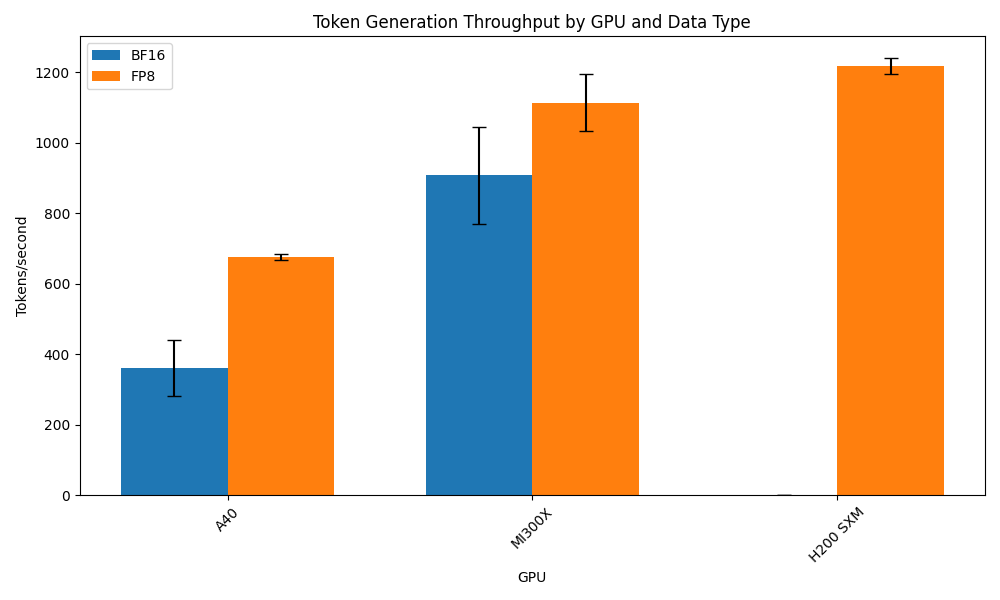
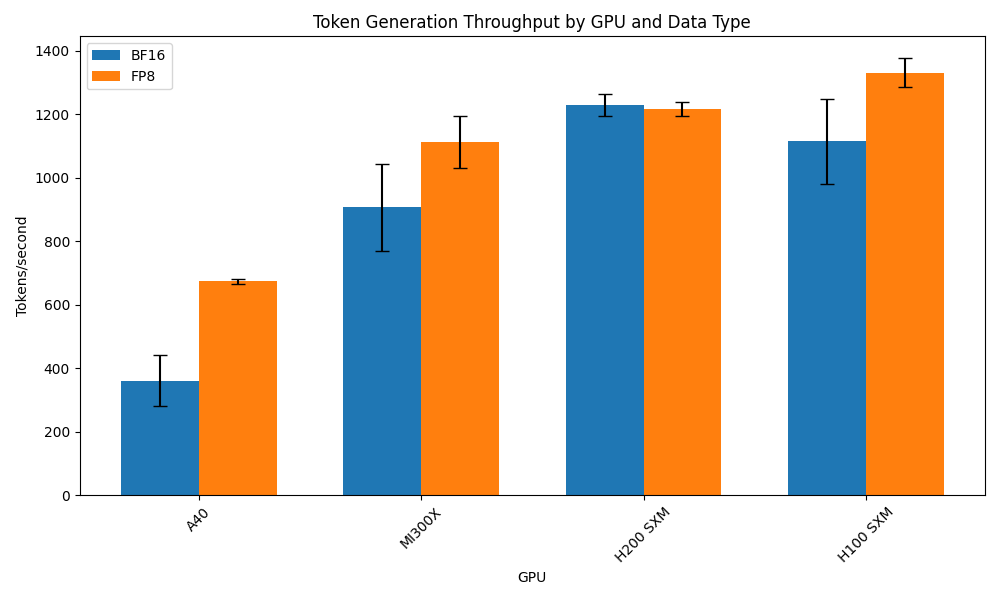
add H100 and H200 results

diff --git a/scripts/verify_price_calcs.py b/scripts/verify_price_calcs.py
@@ -1,0 +1,40 @@
+import sqlite3
+import pandas as pd
+
+def verify_price_calculations(db_path: str = "results.db"):
+    """Verify price calculations for all entries."""
+    conn = sqlite3.connect(db_path)
+    
+    df = pd.read_sql_query('''
+        SELECT id, gpu_info, data_type, price_per_hour, 
+               overall_throughput, price_per_token,
+               mean_input_tokens, mean_output_tokens
+        FROM benchmark_runs
+        ORDER BY gpu_info, data_type
+    ''', conn)
+    
+    print("\nVerifying price calculations:")
+    for _, row in df.iterrows():
+        # Convert output tokens/sec to input tokens/sec using the ratio
+        token_ratio = row['mean_input_tokens'] / row['mean_output_tokens']
+        input_throughput = row['overall_throughput'] * token_ratio
+        input_tokens_per_hour = input_throughput * 3600
+        expected_price_per_token = row['price_per_hour'] / input_tokens_per_hour
+        actual_price_per_token = row['price_per_token']
+        
+        print(f"\n{row['gpu_info']} ({row['data_type']}):")
+        print(f"  Price per hour: ${row['price_per_hour']:.2f}")
+        print(f"  Output throughput: {row['overall_throughput']:.2f} tokens/second")
+        print(f"  Input/Output ratio: {token_ratio:.2f}")
+        print(f"  Input throughput: {input_throughput:.2f} tokens/second")
+        print(f"  Input tokens per hour: {input_tokens_per_hour:,.2f}")
+        print(f"  Expected price/token: ${expected_price_per_token:.8f}")
+        print(f"  Actual price/token: ${actual_price_per_token:.8f}")
+        
+        if abs(expected_price_per_token - actual_price_per_token) > 1e-10:
+            print("  WARNING: Mismatch in price calculation!")
+    
+    conn.close()
+
+if __name__ == "__main__":
+    verify_price_calculations() 

diff --git a/scripts/fix_h100_price.py b/scripts/fix_h100_price.py
@@ -1,0 +1,46 @@
+import sqlite3
+
+def fix_h100_price(db_path: str = "results.db"):
+    """Update price_per_hour for H100 SXM entries from 3.99 to 2.99."""
+    conn = sqlite3.connect(db_path)
+    c = conn.cursor()
+    
+    # First show current entries
+    print("\nCurrent H100 entries:")
+    c.execute('''
+        SELECT id, timestamp, gpu_info, price_per_hour, overall_throughput,
+               mean_input_tokens, mean_output_tokens
+        FROM benchmark_runs 
+        WHERE gpu_info = 'H100 SXM'
+    ''')
+    current = c.fetchall()
+    for row in current:
+        print(row)
+    
+    # Update the price
+    c.execute('''
+        UPDATE benchmark_runs 
+        SET price_per_hour = 2.99,
+            price_per_token = (2.99 / (overall_throughput * 3600 * (mean_input_tokens / mean_output_tokens)))
+        WHERE gpu_info = 'H100 SXM'
+    ''')
+    
+    # Show updated entries
+    print("\nUpdated H100 entries:")
+    c.execute('''
+        SELECT id, timestamp, gpu_info, price_per_hour, overall_throughput,
+               price_per_token
+        FROM benchmark_runs 
+        WHERE gpu_info = 'H100 SXM'
+    ''')
+    updated = c.fetchall()
+    for row in updated:
+        print(row)
+    
+    print(f"\nUpdated {c.rowcount} entries")
+    
+    conn.commit()
+    conn.close()
+
+if __name__ == "__main__":
+    fix_h100_price() 

diff --git a/README.md b/README.md
@@ -440,9 +440,9 @@ export OPENAI_API_BASE="https://qj3y28gcyu18o7-8000.proxy.runpod.net/v1"
 export TOKENIZERS_PARALLELISM=false
 
 uv run python token_benchmark_ray.py \
---model "neuralmagic/Meta-Llama-3.1-8B-Instruct-FP8" \
+--model "unsloth/Meta-Llama-3.1-8B-Instruct" \
 --gpu-info "H100 SXM" \
---price-per-hour 3.99 \
+--price-per-hour 2.99 \
 --db-path "results.db" \
 --results-dir "result_outputs" \
 --mean-input-tokens 550 \
